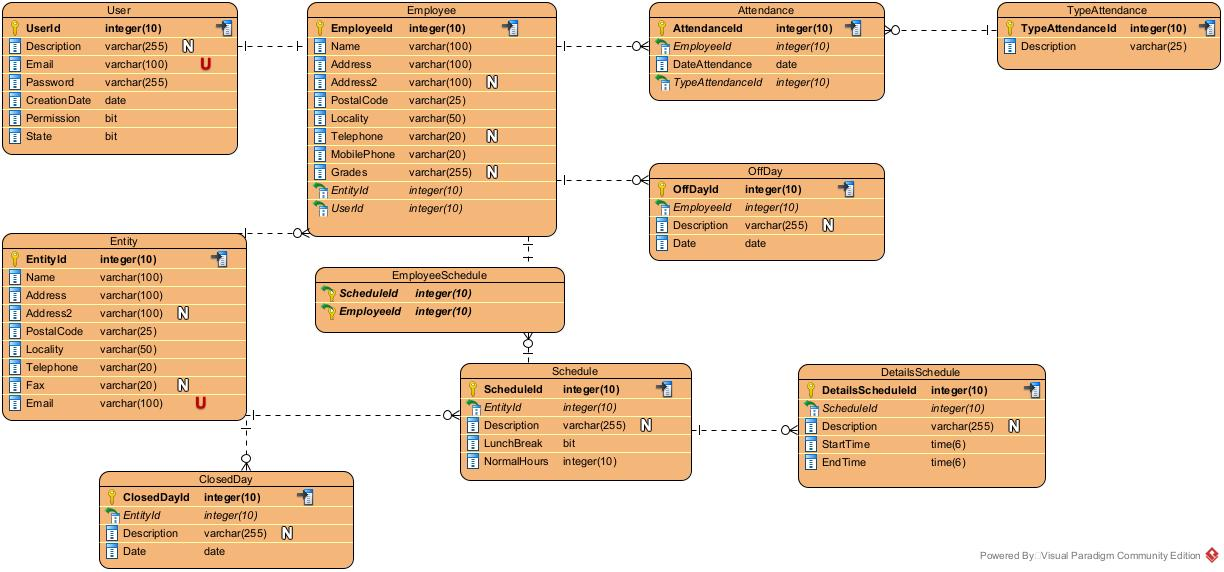
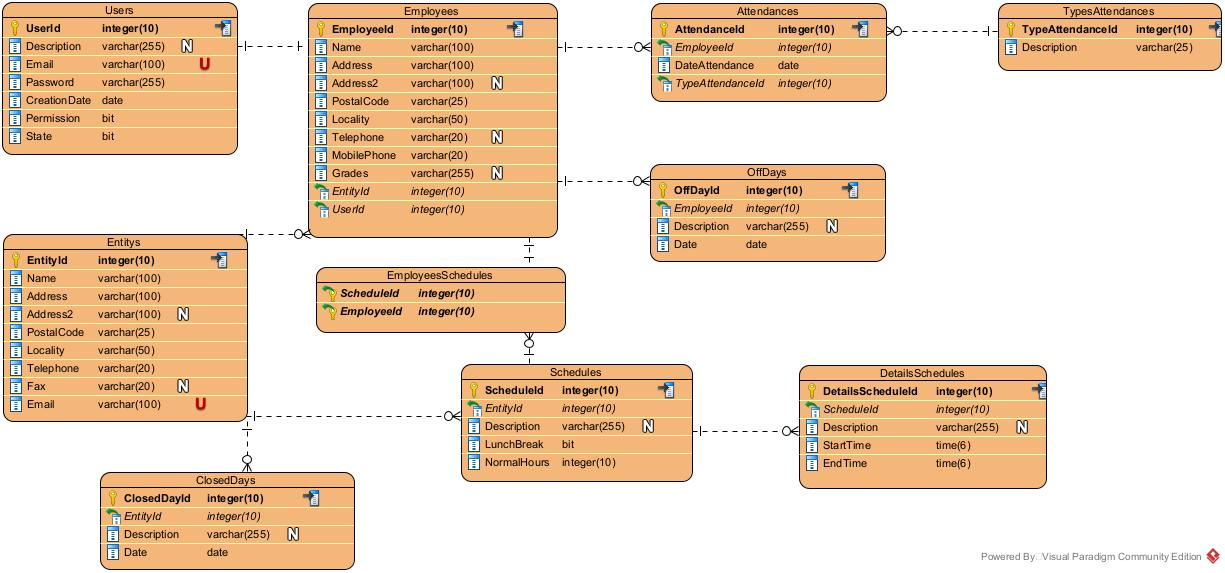
Correção do nome das tabelas da base de dados
Correção na script, no diagrama ER e nos controladores.

diff --git a/Api/controllers/employeeController.js b/Api/controllers/employeeController.js
@@ -5,7 +5,7 @@ module.exports = (app) => {
 
     const getAllEmployees = async (req, res) => {
         try {
-            query = "Select employee.employeeId, employee.name, employee.address, employee.address2, employee.postalCode, employee.locality, employee.mobilePhone, employee.telephone, employee.grades, user.email from employee inner join user on employee.userId = user.userId inner join entity on employee.entityId = entity.entityId where entity.entityId = ? order by employee.employeeId asc";
+            query = "Select employees.employeeId, employees.name, employees.address, employees.address2, employees.postalCode, employees.locality, employees.mobilePhone, employees.telephone, employees.grades, users.email from employees inner join users on employees.userId = users.userId inner join entitys on employees.entityId = entitys.entityId where entitys.entityId = ? order by employees.employeeId asc";
             result = await app.config.connectionDB(query, [req.user.entityId]);
 
             return res.status(200).send(result);
@@ -16,7 +16,7 @@ module.exports = (app) => {
 
     const getEmployee = async (req, res) => {
         try {
-            query = "Select employee.employeeId, employee.name, employee.address, employee.address2, employee.postalCode, employee.locality, employee.mobilePhone, employee.telephone, employee.grades, user.email from employee inner join user on employee.userId = user.userId where employeeId = ?";
+            query = "Select employees.employeeId, employees.name, employees.address, employees.address2, employees.postalCode, employees.locality, employees.mobilePhone, employees.telephone, employees.grades, users.email from employees inner join users on employees.userId = users.userId where employeeId = ?";
             result = await app.config.connectionDB(query, [req.user.employeeId]);
 
             return res.status(200).send(result);
@@ -31,7 +31,7 @@ module.exports = (app) => {
             if (!req.body.email.trim() || !req.body.password.trim() || !req.body.name.trim() || !req.body.address.trim() || !req.body.postalCode.trim() || !req.body.locality.trim() || !req.body.mobilePhone.trim()) {
                 return res.status(400).send("Dados incompletos!");
             } else {
-                query = "Select * from user where email = ?";
+                query = "Select * from users where email = ?";
                 result = await app.config.connectionDB(query, [req.body.email.toLowerCase()]);
         
                 if (result.length > 0) {
@@ -39,10 +39,10 @@ module.exports = (app) => {
                 } else {                    
                     const hash = await bcrypt.hash(req.body.password, 10);
 
-                    query = "Insert into user (description, email, password, creationDate) values (?, ?, ?, ?)";
-                    await app.config.connectionDB(query, [req.body.description, req.body.email.toLowerCase(), hash, new Date()]);
+                    query = "Insert into users (description, email, password, creationDate) values (?, ?, ?, ?)";
+                    result = await app.config.connectionDB(query, [req.body.description, req.body.email.toLowerCase(), hash, new Date()]);
 
-                    query = "Insert into employee (name, address, address2, postalCode, locality, telephone, mobilePhone, grades, entityId, userId) values (?, ?, ?, ?, ?, ?, ?, ?, ?, ?)";
+                    query = "Insert into employees (name, address, address2, postalCode, locality, telephone, mobilePhone, grades, entityId, userId) values (?, ?, ?, ?, ?, ?, ?, ?, ?, ?)";
                     await app.config.connectionDB(query, [req.body.name, req.body.address, req.body.address2, req.body.postalCode, req.body.locality, req.body.telephone, req.body.mobilePhone, req.body.grades, req.user.entityId, result.insertId]);
 
                     return res.status(201).send("Funcionário inserido com sucesso!");
@@ -60,7 +60,7 @@ module.exports = (app) => {
                 return res.status(400).send("Dados incompletos!");
             } else {
 
-                query = "Select user.userId, user.password from user inner join employee on user.userId = employee.userId where employee.employeeID = ?";
+                query = "Select users.userId, users.password from users inner join employees on users.userId = employees.userId where employees.employeeID = ?";
                 result = await app.config.connectionDB(query, [req.user.employeeId]);                
 
                 if (await bcrypt.compare(req.body.currentPassword, result[0].password)) {
@@ -70,7 +70,7 @@ module.exports = (app) => {
                     } else {
                         const hash = await bcrypt.hash(req.body.newPassword, 10);
 
-                        query = "Update user set password = ? where userId = ?";
+                        query = "Update users set password = ? where userId = ?";
                         await app.config.connectionDB(query, [hash, result[0].userId]);
 
                         return res.status(201).send("Palavra-passe alterada com sucesso!");
@@ -90,7 +90,7 @@ module.exports = (app) => {
             if (!req.body.email.trim() || !req.body.password.trim()) {
                 return res.status(400).send('Dados incompletos!');
             } else {
-                query = "Select employee.employeeId, employee.entityId, user.password, user.permission, user.state from employee inner join user on employee.userId = user.userId where email = ?";
+                query = "Select employees.employeeId, employees.entityId, users.password, users.permission, users.state from employees inner join users on employees.userId = users.userId where email = ?";
                 result = await app.config.connectionDB(query, [req.body.email.toLowerCase()]);
 
                 if (result.length > 0) {

diff --git a/Api/controllers/attendanceController.js b/Api/controllers/attendanceController.js
@@ -3,7 +3,7 @@ module.exports = (app) => {
     
     const getAllAttendances = async (req, res) => {
         try {
-            query = "Select attendance.attendanceId, attendance.dateAttendance, typeAttendance.description as 'typeAttendance' from attendance inner join typeAttendance on attendance.typeAttendanceId = typeAttendance.typeAttendanceId where attendance.employeeId = ? order by dateAttendance desc";
+            query = "Select attendances.attendanceId, attendances.dateAttendance, typesAttendances.description as 'typeAttendance' from attendances inner join typesAttendances on attendances.typeAttendanceId = typesAttendances.typeAttendanceId where attendances.employeeId = ? order by attendances.dateAttendance desc";
             result = await app.config.connectionDB(query, [req.user.employeeId]);
 
             return res.status(200).send(result);
@@ -14,7 +14,7 @@ module.exports = (app) => {
 
     const getDateAttendances = async (req, res) => {
         try {            
-            query = "Select attendance.attendanceId, attendance.dateAttendance, typeAttendance.description as 'typeAttendance' from attendance inner join typeAttendance on attendance.typeAttendanceId = typeAttendance.typeAttendanceId where attendance.dateAttendance >= ? And attendance.dateAttendance <= ? And attendance.employeeId = ? order by dateAttendance desc"; 
+            query = "Select attendances.attendanceId, attendances.dateAttendance, typesAttendances.description as 'typeAttendance' from attendances inner join typesAttendances on attendances.typeAttendanceId = typesAttendances.typeAttendanceId where attendances.dateAttendance >= ? And attendances.dateAttendance <= ? And attendances.employeeId = ? order by attendances.dateAttendance desc"; 
             result = await app.config.connectionDB(query, [req.query.initialDate, req.query.finalDate, req.user.employeeId]);
         
             return res.status(200).send(result);
@@ -25,7 +25,7 @@ module.exports = (app) => {
 
     const getLastAttendance = async (req, res) => {
         try {
-            query = "Select attendance.attendanceId, attendance.dateAttendance, typeAttendance.description as 'typeAttendance' from attendance inner join typeAttendance on attendance.typeAttendanceId = typeAttendance.typeAttendanceId where attendance.employeeId = ? order by dateAttendance desc limit 1";
+            query = "Select attendances.attendanceId, attendances.dateAttendance, typesAttendances.description as 'typeAttendance' from attendances inner join typesAttendances on attendances.typeAttendanceId = typesAttendances.typeAttendanceId where attendances.employeeId = ? order by attendances.dateAttendance desc limit 1";
             result = await app.config.connectionDB(query, [req.user.employeeId]);
 
             return res.status(200).send(result);
@@ -37,7 +37,7 @@ module.exports = (app) => {
     const postAttendance = async (req, res) => {
         try {
 
-            query = "Select typeAttendanceId from attendance where employeeId = ? order by dateAttendance desc Limit 1";
+            query = "Select typeAttendanceId from attendances where employeeId = ? order by dateAttendance desc Limit 1";
             result = await app.config.connectionDB(query, [req.user.employeeId]);
             let nextTypeAttendanceId;
 
@@ -47,7 +47,7 @@ module.exports = (app) => {
                 nextTypeAttendanceId = 1;
             }
 
-            query = "Insert into attendance (employeeId, dateAttendance, typeAttendanceId) values (?, ?, ?)";
+            query = "Insert into attendances (employeeId, dateAttendance, typeAttendanceId) values (?, ?, ?)";
             await app.config.connectionDB(query, [req.user.employeeId, new Date(), nextTypeAttendanceId]);
             
             return res.status(201).send(`${nextTypeAttendanceId === 1 ? "Entrada" : "Saída"} registada com sucesso!`);

diff --git a/Api/controllers/scheduleController.js b/Api/controllers/scheduleController.js
@@ -3,7 +3,7 @@ module.exports = (app) => {
 
     const getSchedules = async (req, res) => {
         try {
-            query = "Select schedule.scheduleId, schedule.description, schedule.lunchBreak, schedule.normalHours, detailsSchedule.detailsScheduleId, detailsSchedule.description, detailsSchedule.startTime, detailsSchedule.endTime from schedule inner join employeeSchedule on schedule.scheduleId  = employeeSchedule.scheduleId inner join detailsSchedule on schedule.scheduleId = detailsSchedule.scheduleId where employeeSchedule.employeeId = ? order by detailsSchedule.startTime asc";
+            query = "Select schedules.scheduleId, schedules.description, schedules.lunchBreak, schedules.normalHours, detailsSchedules.detailsScheduleId, detailsSchedules.description, detailsSchedules.startTime, detailsSchedules.endTime from schedules inner join employeesSchedules on schedules.scheduleId  = employeesSchedules.scheduleId inner join detailsSchedules on schedules.scheduleId = detailsSchedules.scheduleId where employeesSchedules.employeeId = ? order by detailsSchedules.startTime asc";
             result = await app.config.connectionDB(query, [req.user.employeeId]);
 
             return res.status(200).send(result);
@@ -18,12 +18,12 @@ module.exports = (app) => {
             if (!req.body.lunchBreak || !req.body.normalHours || !req.body.details) {
                 return res.status(400).send("Dados incompletos!");
             } else {
-                query = "Insert into schedule (entityId, description, lunchBreak, normalHours) values (?, ?, ?, ?)";
+                query = "Insert into schedules (entityId, description, lunchBreak, normalHours) values (?, ?, ?, ?)";
                 result = await app.config.connectionDB(query, [req.user.entityId, req.body.description, req.body.lunchBreak, req.body.normalHours]);
                 
                 const scheduleId =  result.insertId;
 
-                query = "Insert into detailsSchedule (scheduleId, description, startTime, endTime) values (?, ?, ?, ?)";
+                query = "Insert into detailsSchedules (scheduleId, description, startTime, endTime) values (?, ?, ?, ?)";
                 for (let i = 0; i < req.body.details.length; i++) {
                     result = await app.config.connectionDB(query, [scheduleId, req.body.details[i].description, req.body.details[i].startTime, req.body.details[i].endTime]);
                 }
@@ -40,7 +40,7 @@ module.exports = (app) => {
             if (!req.body.scheduleId || !req.body.employeeId) {
                 return res.status(400).send("Dados incompletos!");
             } else {
-                query = "Insert into employeeSchedule (scheduleId, employeeId) values (?, ?)";
+                query = "Insert into employeesSchedules (scheduleId, employeeId) values (?, ?)";
                 await app.config.connectionDB(query, [req.body.scheduleId, req.body.employeeId]);
 
                 return res.status(201).send("Inserido horário para um funcionário com sucesso!");

diff --git a/Api/controllers/offDayController.js b/Api/controllers/offDayController.js
@@ -3,7 +3,7 @@ module.exports = (app) => {
 
     const getOffDays = async (req, res) => {
         try {
-            query = "Select offDayId, description, date from offDay where employeeId = ?"; 
+            query = "Select offDayId, description, date from offDays where employeeId = ?"; 
             result = await app.config.connectionDB(query, [req.user.employeeId]);
 
             return res.status(200).send(result);
@@ -15,7 +15,7 @@ module.exports = (app) => {
 
     const getDateOffDays = async (req, res) => {
         try {
-            query = "Select offDayId, description, date from offDay where date >= ? and date <= ? and employeeId = ?";
+            query = "Select offDayId, description, date from offDays where date >= ? and date <= ? and employeeId = ?";
             result = await app.config.connectionDB(query, [req.query.initialDate, req.query.finalDate, req.user.employeeId]);
 
             return res.status(200).send(result);
@@ -30,7 +30,7 @@ module.exports = (app) => {
             if (!req.body.employeeId || !req.body.date) {
                 return res.status(400).send("Dados incompletos!");
             } else {
-                query = "Insert into offDay (employeeId, description, date) values (?, ?, ?)";
+                query = "Insert into offDays (employeeId, description, date) values (?, ?, ?)";
                 await app.config.connectionDB(query, [req.body.employeeId, req.body.description, req.body.date]);
 
                 return res.status(201).send("Registo inserido com sucesso!");

diff --git a/Api/controllers/closedDayController.js b/Api/controllers/closedDayController.js
@@ -3,7 +3,7 @@ module.exports = (app) => {
     
     const getClosedDays = async (req, res) => {
         try {
-            query = "Select closedDayId, description, date from closedDay where entityId = ?"; 
+            query = "Select closedDayId, description, date from closedDays where entityId = ?"; 
             result = await app.config.connectionDB(query, [req.user.entityId]);
 
             return res.status(200).send(result);
@@ -15,7 +15,7 @@ module.exports = (app) => {
 
     const getDateClosedDays = async (req, res) => {
         try {
-            query = "Select closedDayId, description, date from closedDay where date >= ? and date <= ? and entityId = ?";
+            query = "Select closedDayId, description, date from closedDays where date >= ? and date <= ? and entityId = ?";
             result = await app.config.connectionDB(query, [req.query.initialDate, req.query.finalDate, req.user.entityId]);
 
             return res.status(200).send(result);
@@ -30,7 +30,7 @@ module.exports = (app) => {
             if (!req.body.date) {
                 return res.status(400).send("Dados incompletos!");
             } else {
-                query = "Insert into closedDay (entityId, description, date) values (?, ?, ?)";
+                query = "Insert into closedDays (entityId, description, date) values (?, ?, ?)";
                 await app.config.connectionDB(query, [req.user.entityId, req.body.description, req.body.date]);
 
                 return res.status(201).send("Registo inserido com sucesso!");

diff --git a/Api/controllers/entityController.js b/Api/controllers/entityController.js
@@ -3,7 +3,7 @@ module.exports = (app) => {
 
     const getEntitys = async (req, res) => {
         try {
-            query = "Select * from entity where entityId = ?";
+            query = "Select * from entitys where entityId = ?";
             result = await app.config.connectionDB(query, [req.user.entityId]);
 
             return res.status(200).send(result);
@@ -18,7 +18,7 @@ module.exports = (app) => {
             if (!req.body.name.trim() || !req.body.address.trim() || !req.body.postalCode.trim() || !req.body.locality.trim() || !req.body.telephone.trim() || !req.body.email.trim()) {
                 return res.status(400).send("Dados incompletos!");
             } else {
-                query = "Insert into entity (name, address, address2, postalCode, locality, telephone, fax, email) values (?, ?, ?, ?, ?, ?, ?, ?)";
+                query = "Insert into entitys (name, address, address2, postalCode, locality, telephone, fax, email) values (?, ?, ?, ?, ?, ?, ?, ?)";
                 await app.config.connectionDB(query, [req.body.name, req.body.address, req.body.address2, req.body.postalCode, req.body.locality, req.body.telephone, req.body.fax, req.body.email]);
 
                 return res.status(201).send("Entidade inserida com sucesso!");
